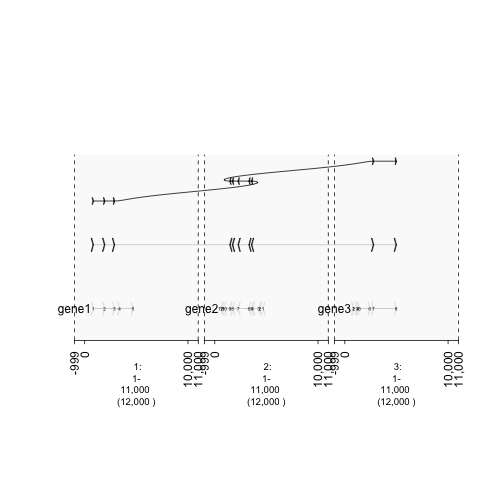
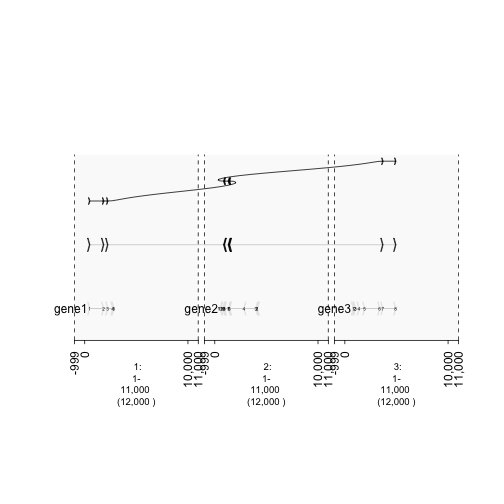
edit vignette

diff --git a/rtdocs/vignetteMutations/vignetteMutations.rst b/rtdocs/vignetteMutations/vignetteMutations.rst
@@ -70,7 +70,7 @@ Vignette Showing How to Graph Mutations
     
 
     ## Create a GRanges
-    fake.genome = c(chr1=1e4, chr2=1e3, chr3=5e3)
+    fake.genome = c('1'=1e4, '2'=1e3, '3'=5e3)
     tiles = gr.tile(fake.genome, 1)
     
     ## Choose 5 random indices 
@@ -82,8 +82,7 @@ Vignette Showing How to Graph Mutations
     
     ## randomly select 2000 sequences. Probability of choosing variants is high.
     mut = sample(tiles, 2000, prob = prob)
-    gt.mut = gTrack(mut)
-    win = si2gr(fake.genome)
+    gt.mut = gTrack(mut, circle = TRUE, stack.gap = 100)
 
 
 
